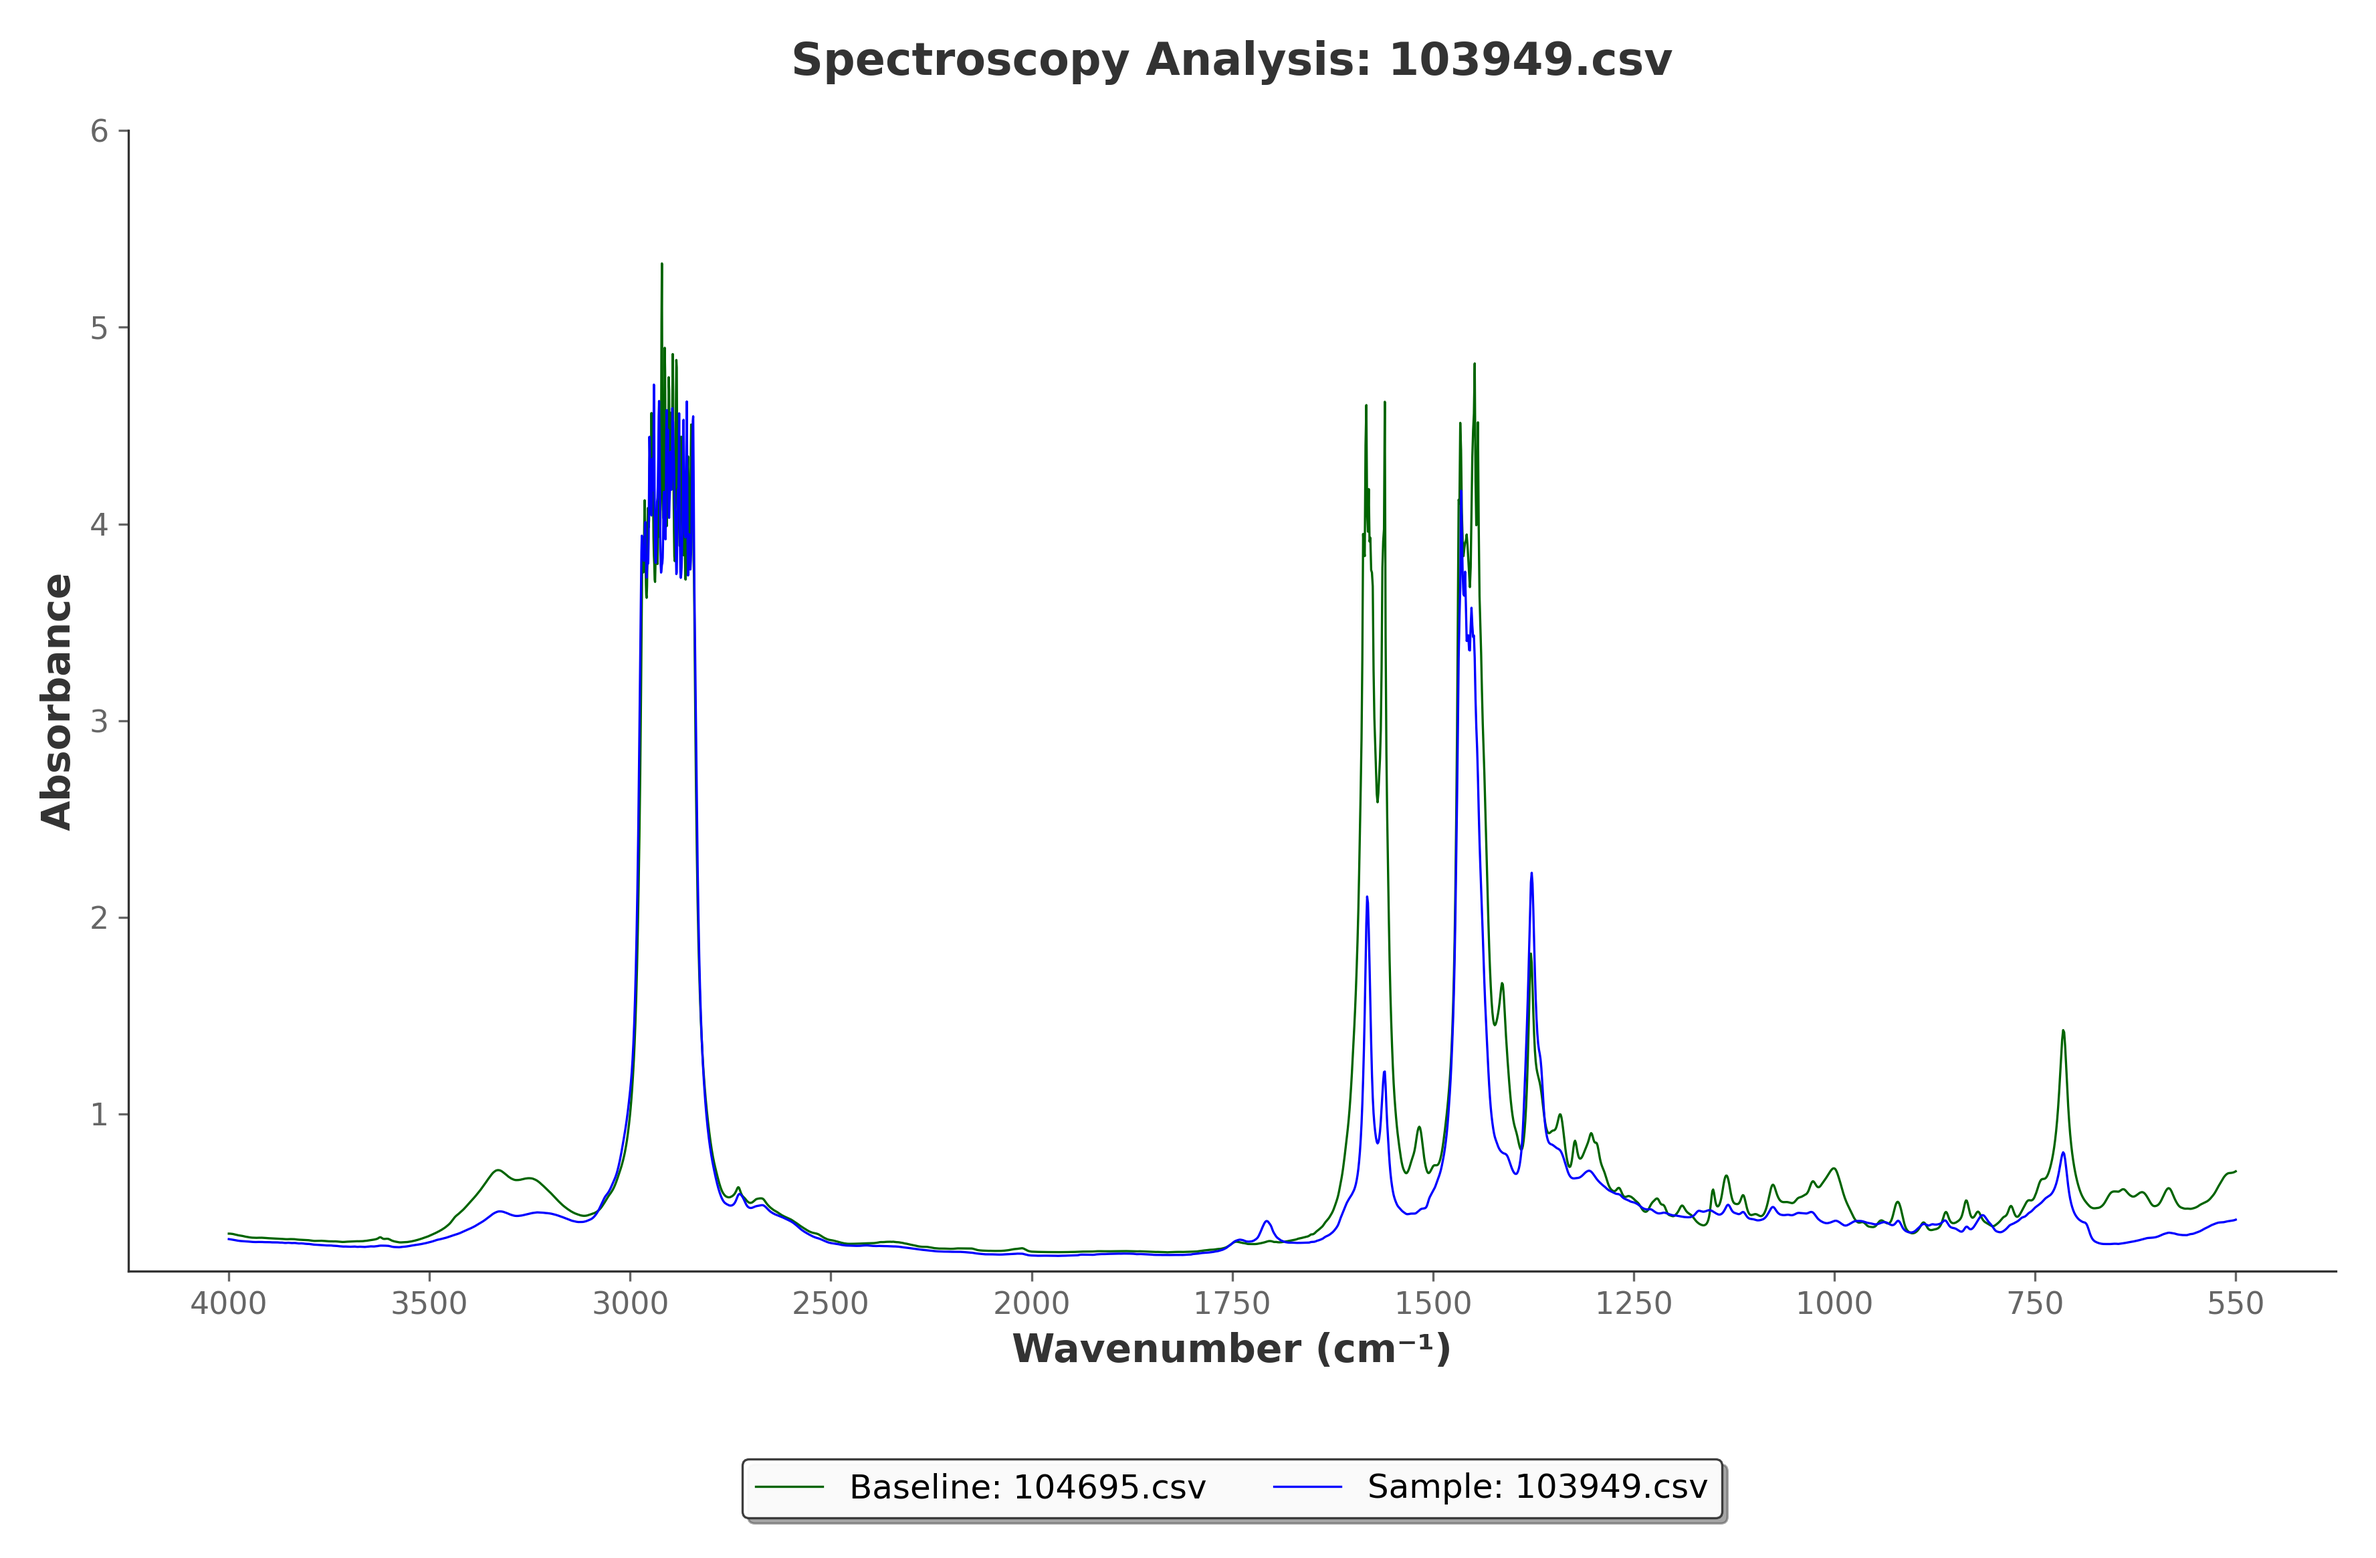
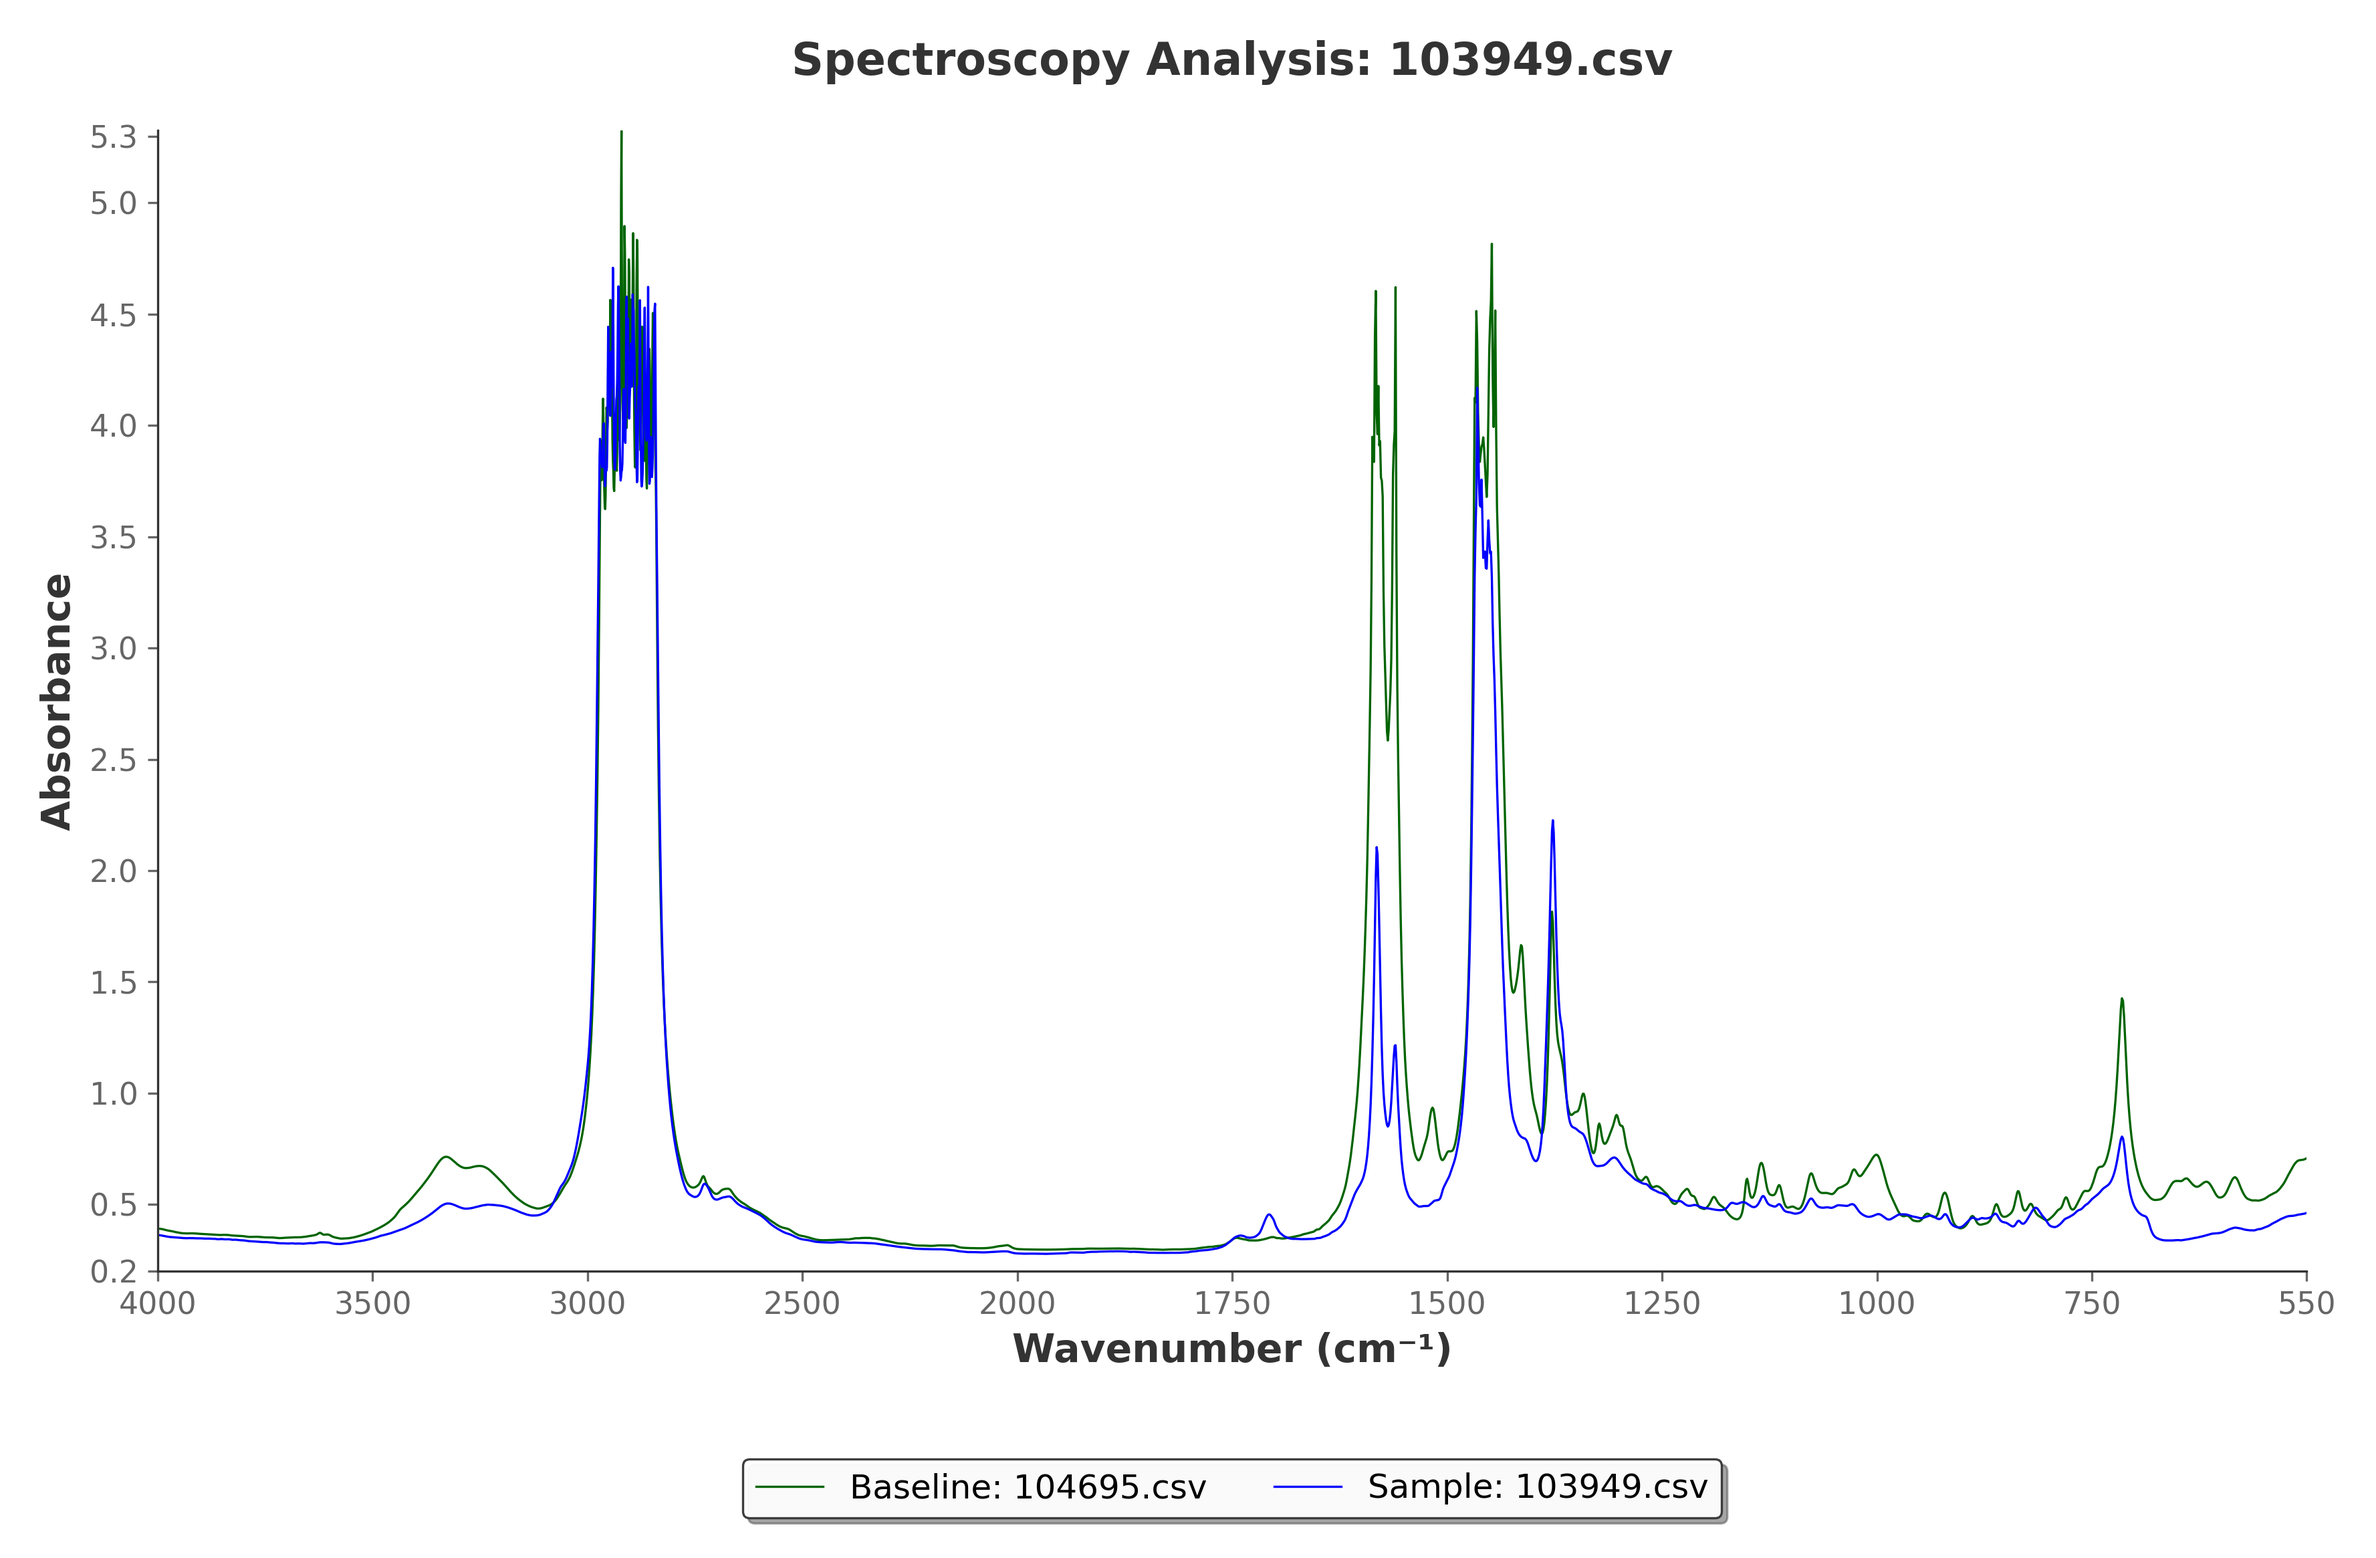
Improved the y-axis, made to two decimal place, 0.5 difference and adding minimum maximum

diff --git a/backend/utils/plotter.py b/backend/utils/plotter.py
@@ -83,13 +83,38 @@ def generate_and_save(baseline_upload, sample_uploads: List, dpi: int = 300, sav
                 label=f'Sample: {sample.filename}',
                 alpha=1.0)
         
+        # Calculate maximum absorbance from both datasets for y-axis limit
+        max_absorbance = max(y_base.max(), y_s.max())
+        
+        # Y-axis setup: minimum, then 0.5 intervals, then maximum
+        y_min = 0.2
+        y_interval = 0.5
+        
+        # Start with minimum value
+        y_ticks = [round(y_min, 1)]
+        
+        # Add regular 0.5 intervals starting from 0.5
+        current_tick = 0.5
+        while current_tick < max_absorbance:
+            y_ticks.append(round(current_tick, 1))
+            current_tick += y_interval
+        
+        # Add the maximum as the final tick, rounded to 1 decimal place
+        y_ticks.append(round(max_absorbance, 1))
+        y_max = max_absorbance
+        
         # Set axis with equal-spaced positions
-        ax.set_xlim(-0.5, len(custom_xticks) - 0.5)
-        ax.set_ylim(0.2, 6)
+        # Start at 0 so 4000 (position 0) aligns with y-axis
+        ax.set_xlim(0, len(custom_xticks) - 1)
+        ax.set_ylim(y_min, y_max)
         ax.set_xlabel('Wavenumber (cm⁻¹)', fontsize=14, fontweight='bold', color='#333')
         ax.set_ylabel('Absorbance', fontsize=14, fontweight='bold', color='#333')
         
-        # Set tick positions and labels
+        # Set y-axis ticks with 1 decimal place formatting
+        ax.set_yticks(y_ticks)
+        ax.set_yticklabels([f'{tick:.1f}' for tick in y_ticks])
+        
+        # Set tick positions and labels for x-axis
         tick_positions = list(range(len(custom_xticks)))
         ax.set_xticks(tick_positions)
         ax.set_xticklabels(custom_xticks)
